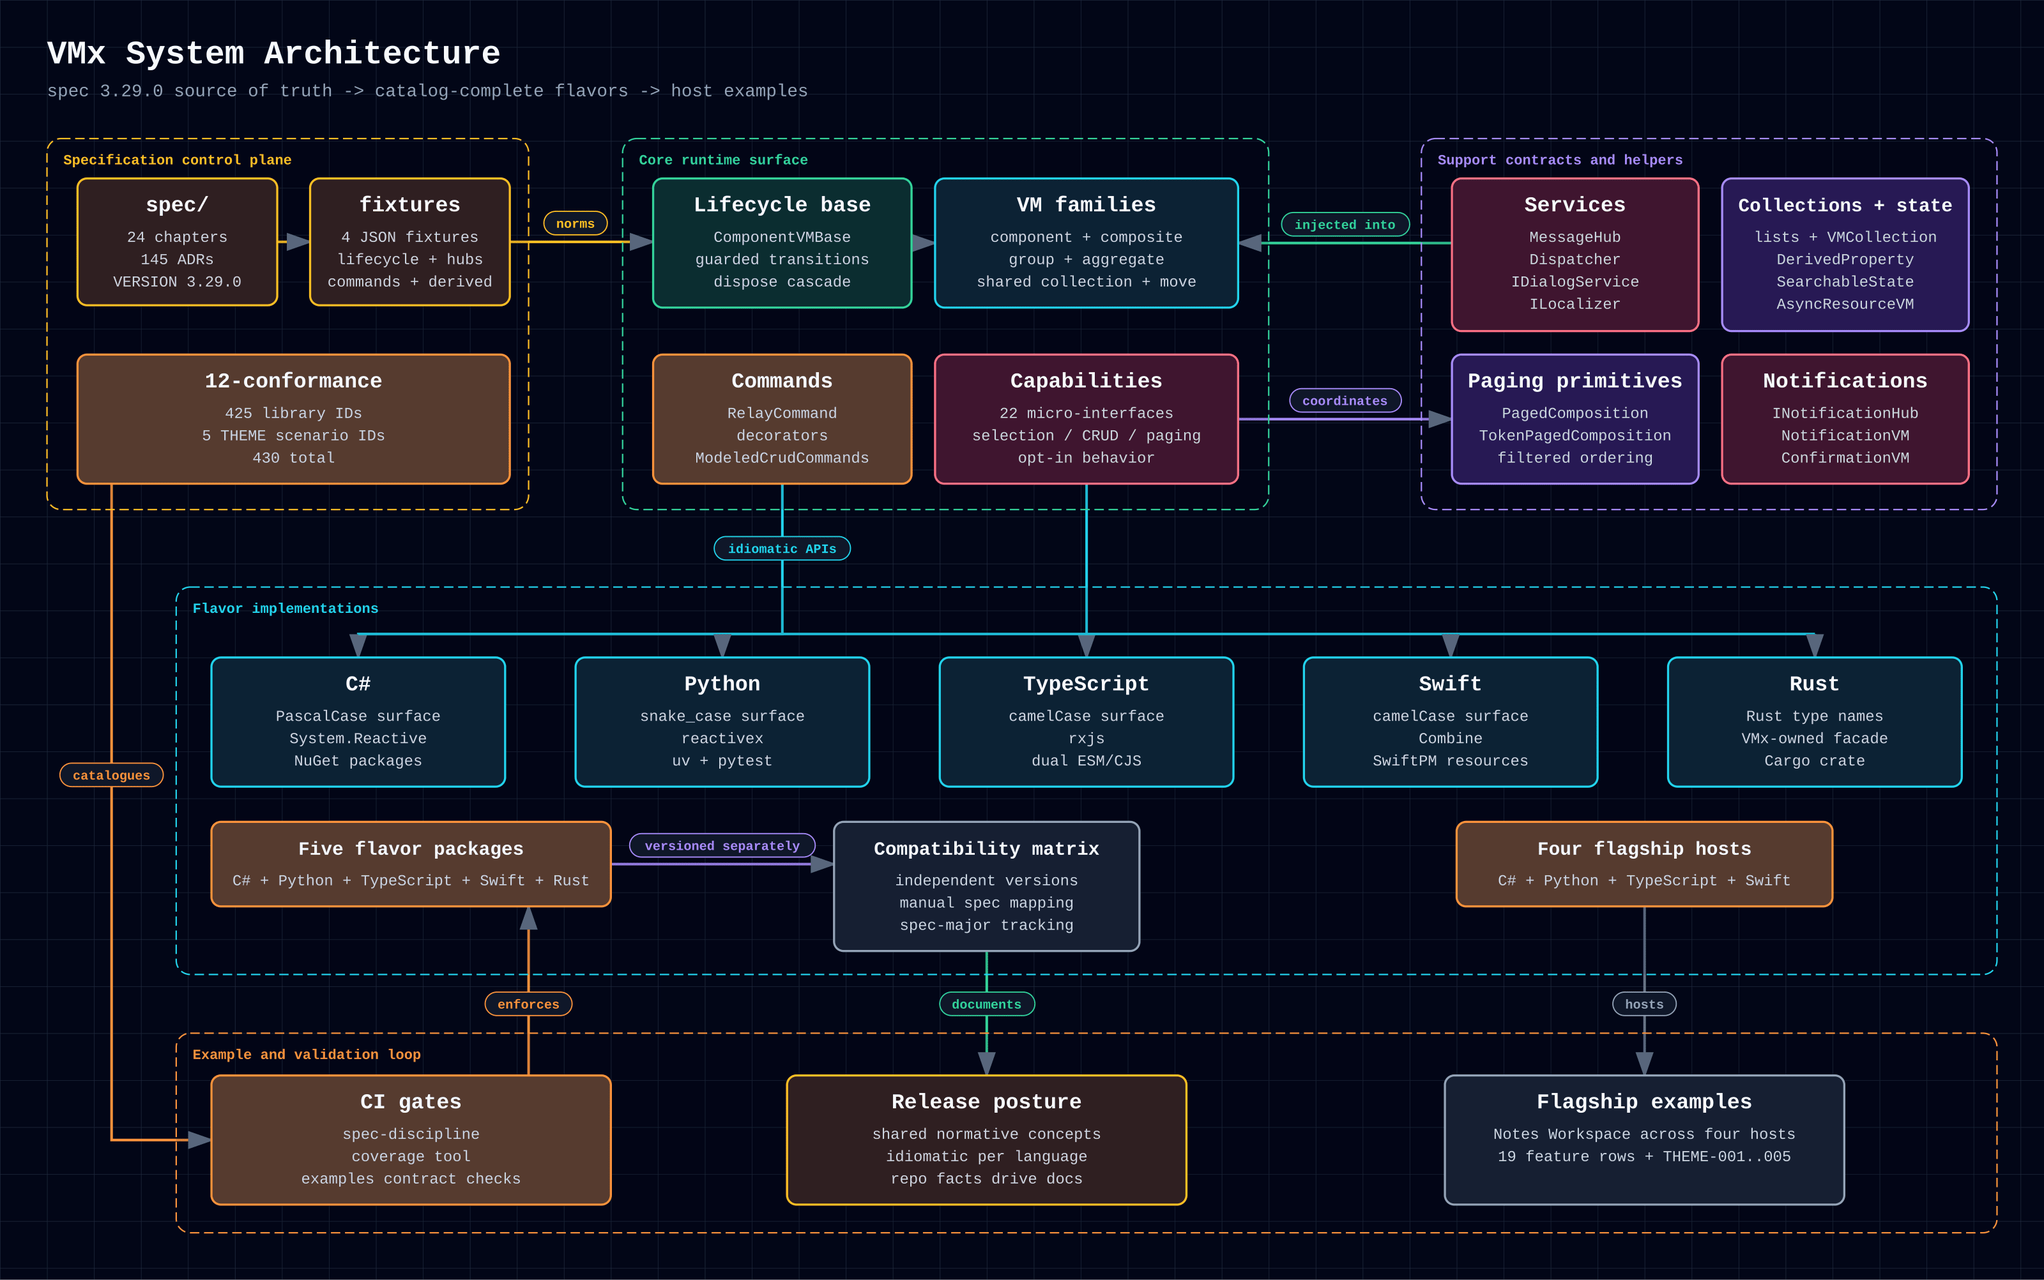
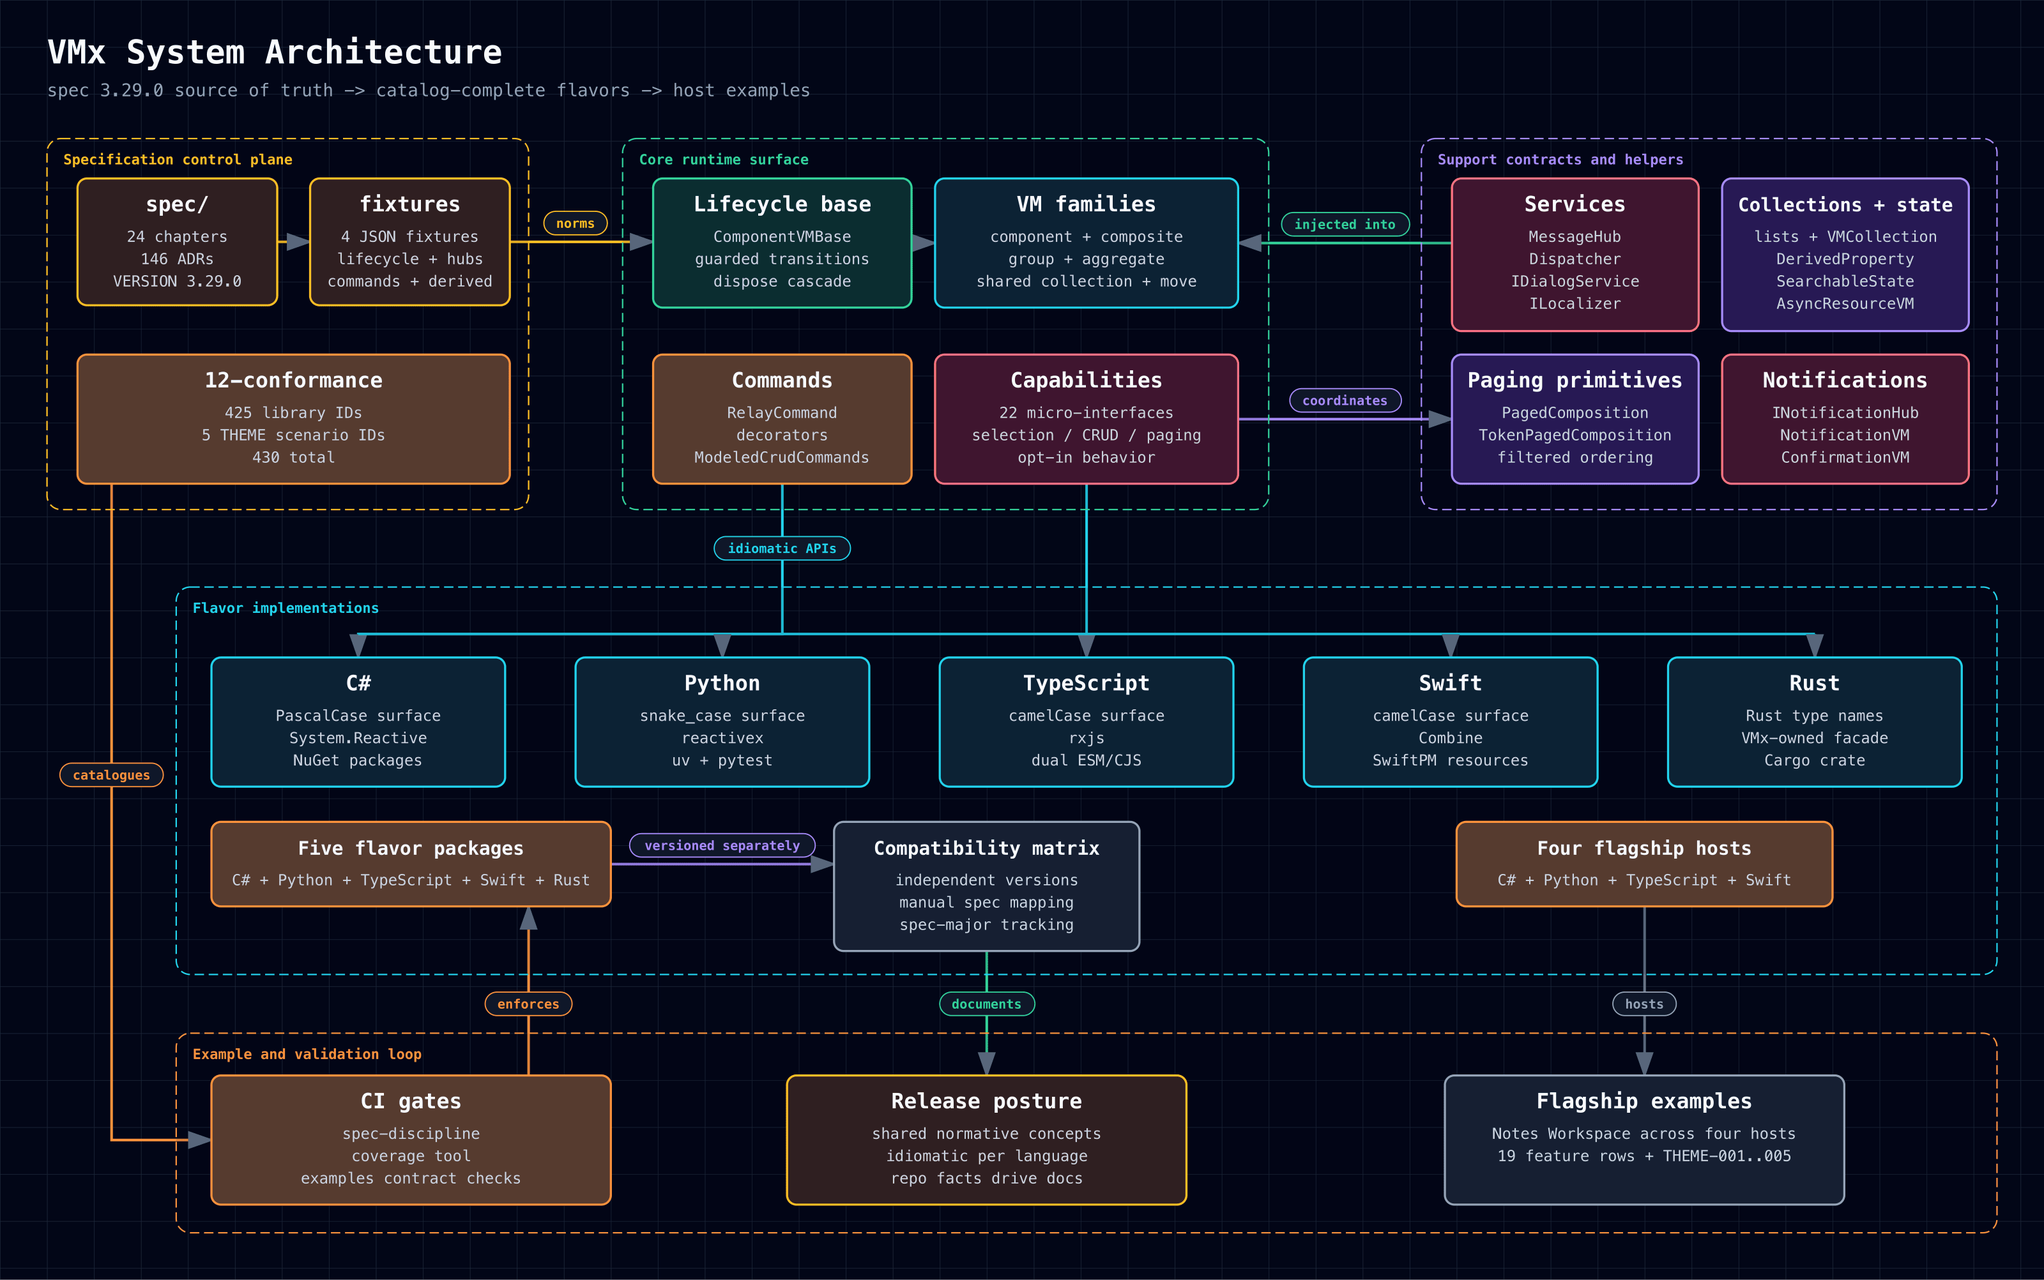
docs: name all five flavors in tree and fluent surfaces (ADR-0146)
- spec/13 §4 gains a Rust row and spec/04 §9 names the Swift free functions
  and Rust CommandExt helpers, as ADR-0121 requires. ADR-0146 records the
  editorial change and the open Rust traversal gap.
- ADR counts, ranges, and architecture diagrams move to 146.
- The Rust showcase page describes save()/revert() and the
  SearchableState-backed search as they are.
- release-please runs with a read-only default token; every write already
  used the dedicated release token.

diff --git a/assets/architecture.html b/assets/architecture.html
@@ -75,7 +75,7 @@
 <rect x="60" y="130" width="300" height="160" rx="12" fill="rgba(120, 53, 15, 0.34)" stroke="#fbbf24" stroke-width="2"/>
 <text x="210" y="162" fill="white" font-size="18" font-weight="700" text-anchor="middle">Spec Source</text>
 <text x="210" y="188" fill="#cbd5e1" font-size="14" font-weight="400" text-anchor="middle">24 chapters</text>
-<text x="210" y="212" fill="#cbd5e1" font-size="14" font-weight="400" text-anchor="middle">145 ADRs</text>
+<text x="210" y="212" fill="#cbd5e1" font-size="14" font-weight="400" text-anchor="middle">146 ADRs</text>
 <text x="210" y="236" fill="#cbd5e1" font-size="14" font-weight="400" text-anchor="middle">430 conformance IDs</text>
 <text x="210" y="260" fill="#cbd5e1" font-size="14" font-weight="400" text-anchor="middle">4 JSON fixtures</text>
 <rect x="450" y="130" width="300" height="160" rx="12" fill="#0f172a"/>

diff --git a/docs/assets/diagrams/system-architecture.html b/docs/assets/diagrams/system-architecture.html
@@ -135,7 +135,7 @@
 <rect x="66" y="152" width="170" height="108" rx="8" fill="rgba(120, 53, 15, 0.3)" stroke="#fbbf24" stroke-width="1.8"/>
 <text x="151" y="180" fill="#f8fafc" font-size="18" font-weight="700" text-anchor="middle">spec/</text>
 <text x="151" y="206" fill="#cbd5e1" font-size="13" font-weight="400" text-anchor="middle">24 chapters</text>
-<text x="151" y="225" fill="#cbd5e1" font-size="13" font-weight="400" text-anchor="middle">145 ADRs</text>
+<text x="151" y="225" fill="#cbd5e1" font-size="13" font-weight="400" text-anchor="middle">146 ADRs</text>
 <text x="151" y="244" fill="#cbd5e1" font-size="13" font-weight="400" text-anchor="middle">VERSION 3.29.0</text>
 <rect x="264" y="152" width="170" height="108" rx="8" fill="#0f172a"/>
 <rect x="264" y="152" width="170" height="108" rx="8" fill="rgba(120, 53, 15, 0.3)" stroke="#fbbf24" stroke-width="1.8"/>

diff --git a/spec/ADRs/README.md b/spec/ADRs/README.md
@@ -164,6 +164,7 @@ cross-references each ADR carries.
 | [0143](0143-formvm-single-flight-approval.md)                                    | `FormVM` admits one approval at a time: while an approval is in flight `ApproveCommand.CanExecute` is false and any other approve call does nothing; settlement clears the mark before publishing `ErrorsChanged`, one `CanExecuteChanged`, and the outcome; edits and deny are not blocked; no public member added                                                                                                                                                                                                                                                                                                                                                                                                                                                                                                                                                                                                                                                                                                                                                                                                                                                                                                                                                                                                                | 3.27.0       | Accepted                          |
 | [0144](0144-formvm-failure-atomic-model-updates.md)                              | `FormVM` `SetModel` and deny prepare before they commit: equality, validators and the deny snapshotter run on the candidate first; a failing callback propagates with model, errors, dirty/valid and command state unchanged and nothing published; a stale preparation (disposal or a nested commit) commits nothing                                                                                                                                                                                                                                                                                                                                                                                                                                                                                                                                                                                                                                                                                                                                                                                                                                                                                                                                                                                                              | 3.28.0       | Accepted                          |
 | [0145](0145-confirmation-awaits-async-inner.md)                                  | An awaited `ConfirmationDecoratorCommand.ExecuteAsync` over an asynchronous inner (async command capability or a nested confirmation) completes when the inner operation completes, invoking it once, with failures to the awaiter only; the fire-and-forget path leaves inner failures on the inner's own error channel; Rust `Command` gains a provided awaitable entry point                                                                                                                                                                                                                                                                                                                                                                                                                                                                                                                                                                                                                                                                                                                                                                                                                                                                                                                                                    | 3.29.0       | Accepted                          |
+| [0146](0146-name-all-flavors-in-tree-and-fluent-surfaces.md)                     | Chapter 13 §4 gains a Rust tree-utility row and chapter 04 §9 names the Swift free functions and Rust `CommandExt` fluent helpers, as ADR-0121 requires; editorial, no new behavior                                                                                                                                                                                                                                                                                                                                                                                                                                                                                                                                                                                                                                                                                                                                                                                                                                                                                                                                                                                                                                                                                                                                                | 3.29.0       | Accepted                          |
 
 ### 1.1 Consolidation opportunities (informative — VMX-120)
 

diff --git a/AGENTS.md b/AGENTS.md
@@ -6,7 +6,7 @@ This file provides guidance to Codex (Codex.ai/code) when working with code in t
 
 VMx is **one language-neutral specification with five idiomatic flavors**. All five are catalog-complete for the 425 library conformance IDs and aligned on the canonical public concepts and observable behavior. Rust's completed convergence evidence is recorded in `docs/maintenance/2026-07-16-rust-capability-parity.md`; ADR-0120 retains its ownership-safe sender-identity idiom. Naming remains idiomatic (PascalCase C#, snake_case Python and Rust methods, camelCase TypeScript and Swift — codified in `spec/ADRs/0006-idiomatic-api-per-language.md`).
 
-- **`spec/` is the source of truth.** 24 numbered markdown chapters (`00-overview.md` … `23-async-resource-vm.md`), 145 ADRs, four JSON fixtures, supporting schemas, current version in `spec/VERSION` (3.29.0). Behavior changes start here.
+- **`spec/` is the source of truth.** 24 numbered markdown chapters (`00-overview.md` … `23-async-resource-vm.md`), 146 ADRs, four JSON fixtures, supporting schemas, current version in `spec/VERSION` (3.29.0). Behavior changes start here.
 - **`spec/fixtures/*.json` are consumed by all flavors** for lifecycle, message-ordering, command-truthtable, and derived-property validation. Python tracks `lifecycle-transitions.json` under `langs/python/src/vmx/lifecycle/_data/` for runtime loading, and `tools/check-python-fixture-sync.py` keeps it byte-identical to the spec fixture; Rust tracks the same runtime fixture under `langs/rust/src/fixtures/` so the published crate is self-contained, and `tools/check-rust-fixture-sync.py` keeps that copy byte-identical. The other fixtures are conformance-test inputs. TypeScript copies all fixtures via `npm run sync-fixtures` (auto-run by `prebuild`, `pretest`, and `prepack`). C# embeds `lifecycle-transitions.json` for runtime and copies all fixtures into conformance test output. Swift ships all four JSON resources under `langs/swift/Sources/VMx/Resources`, including `LifecycleTransitionTable.swift` loading `lifecycle-transitions.json` from `Bundle.module`. When editing a fixture, ensure every flavor still loads the relevant runtime/test resource.
 - **`spec/12-conformance.md` enumerates 430 normative test IDs** — 425 library IDs (`LIFE-001`, `HUB-013`, `CVM-010`, `SUBV-004`, `AGCH-010`, `SRCH-007`, `ARES-011`, `DISP-014`, `FORM-038`, `COL-064`, `BLD-006`, `GRP-013`, `HIER-030`, `NOTIF-017`, `COMP-045`, `DISC-006`, …) plus 5 `THEME-00x` scenario IDs that live in the flagship example apps. C#, Python, TypeScript, Swift, and Rust each implement all 425 library IDs under their conformance test trees. `tools/check-conformance-coverage.py` enforces 100% catalog coverage for all five flavors in CI; coverage alone does not prove member-level parity.
 - **Each flavor versions independently** but a spec major bump triggers a major bump in every active flavor. Each package declares the spec version it implements: `MinSpecVersion` (C#), `__min_spec_version__` (Python), `__minSpecVersion__` (TypeScript), `VMxVersion.minSpecVersion` (Swift), `MIN_SPEC_VERSION` (Rust). Compatibility is recorded in `compatibility-matrix.md`; release-please updates the current Python cell, while spec and other flavor changes remain explicit edits.

diff --git a/spec/ADRs/0146-name-all-flavors-in-tree-and-fluent-surfaces.md b/spec/ADRs/0146-name-all-flavors-in-tree-and-fluent-surfaces.md
@@ -1,0 +1,40 @@
+# ADR 0146 — Tree-utility and fluent-command surfaces name all five flavors
+
+- **Status:** Accepted
+- **Date:** 2026-10-17
+- **Spec version:** 3.29.0
+- **Related:** [ADR-0006](0006-idiomatic-api-per-language.md) (idiomatic API per
+  language), [ADR-0027](0027-fluent-command-extensions.md) (fluent command
+  extensions), [ADR-0121](0121-current-five-flavor-contract-clarifications.md)
+  (current prose names all five flavors)
+
+## 1. Context
+
+ADR-0121 requires current spec prose either to stay language-neutral or to name
+all five flavors. Two per-flavor surface descriptions did not:
+
+- Chapter 13 §4 listed the tree-utility surface for C#, Python, TypeScript, and
+  Swift, with no Rust row.
+- Chapter 04 §9 described the fluent helpers for C#, Python, and TypeScript
+  only, although Swift ships free functions and Rust ships the `CommandExt`
+  trait.
+
+## 2. Decision
+
+Add the missing flavors to both descriptions, as the code ships them:
+
+- Chapter 13 §4 gains a Rust row. Rust exposes `walk`, `walk_expanded`, and
+  `find` as crate-level functions over a `TreeNode` implementor. They return a
+  materialized `Vec<T>` and an `Option<T>`.
+- Chapter 04 §9 names the Swift free functions and the Rust `CommandExt`
+  trait methods.
+
+The change is editorial. It adds no normative behavior and no conformance ID.
+
+## 3. Consequences
+
+- The two sections satisfy ADR-0121.
+- Chapter 13 still requires traversal through composite, group, and aggregate
+  children. The Rust functions traverse only `TreeNode` implementors, which
+  today means `HierarchicalVm` trees. This ADR records that gap and does not
+  change it; closing it needs a separate behavioral change with its own tests.

diff --git a/README.md b/README.md
@@ -310,7 +310,7 @@ released compatibility plus the current in-development line.
 
 ### 6.3 Conformance catalog
 
-`spec/` holds 24 chapters, 145 ADRs, 4 JSON fixtures, and the conformance
+`spec/` holds 24 chapters, 146 ADRs, 4 JSON fixtures, and the conformance
 catalog in `spec/12-conformance.md`. All five flavors implement its
 425 library conformance IDs, and the four UI-backed flagship apps cover
 5 additional THEME scenario IDs, for **430 total**. Rust has no UI scenario
@@ -336,7 +336,7 @@ python3 tools/check-conformance-coverage.py
 .
 ├── spec/                  language-neutral specification (source of truth)
 │   ├── 00-overview.md ... 23-async-resource-vm.md  (24 chapters)
-│   ├── ADRs/              architecture decision records (0001..0145)
+│   ├── ADRs/              architecture decision records (0001..0146)
 │   ├── fixtures/          JSON test inputs shared across flavors
 │   ├── schemas/           versioned supporting machine contracts
 │   ├── proposals/         mostly historical; scenario contracts may be normative
@@ -381,7 +381,7 @@ This README is the entry point; the documents below add focused detail.
   community guidelines.
 - [`compatibility-matrix.md`](compatibility-matrix.md) — spec ↔ flavor
   version pairing.
-- [`spec/README.md`](spec/README.md) — index of the 24 chapters, 145 ADRs,
+- [`spec/README.md`](spec/README.md) — index of the 24 chapters, 146 ADRs,
   4 fixtures, and the 430-ID conformance catalog.
 - [`spec/ADRs/README.md`](spec/ADRs/README.md) — ADR catalogue index.
 - [`docs/audit/README.md`](docs/audit/README.md) — index of historical

diff --git a/spec/13-tree-utilities.md b/spec/13-tree-utilities.md
@@ -51,12 +51,13 @@ Properties:
 
 ## 4. Idiomatic surface
 
-| Flavor     | Module     | Walk / WalkExpanded return           | Find return            |
-| ---------- | ---------- | ------------------------------------ | ---------------------- |
-| C#         | `VMx.Tree` | `IEnumerable<IComponentVM>` (lazy)   | `IComponentVM?`        |
-| Python     | `vmx.tree` | `Iterator[IComponentVM]` (generator) | `IComponentVM \| None` |
-| TypeScript | `vmx/tree` | `Iterable<IComponentVM>` (generator) | `IComponentVM \| null` |
-| Swift      | `VMx`      | `[ComponentVMBase]` (materialized)   | `ComponentVMBase?`     |
+| Flavor     | Module     | Walk / WalkExpanded return                | Find return            |
+| ---------- | ---------- | ----------------------------------------- | ---------------------- |
+| C#         | `VMx.Tree` | `IEnumerable<IComponentVM>` (lazy)        | `IComponentVM?`        |
+| Python     | `vmx.tree` | `Iterator[IComponentVM]` (generator)      | `IComponentVM \| None` |
+| TypeScript | `vmx/tree` | `Iterable<IComponentVM>` (generator)      | `IComponentVM \| null` |
+| Swift      | `VMx`      | `[ComponentVMBase]` (materialized)        | `ComponentVMBase?`     |
+| Rust       | `vmx`      | `Vec<T>` for `T: TreeNode` (materialized) | `Option<T>`            |
 
 `walk_expanded` (spec v2.0) shares the same return shape as `walk` per flavor.
 Swift returns materialized `[ComponentVMBase]` arrays rather than lazy sequences

diff --git a/docs/content/examples/rust-tui-notes-showcase.md b/docs/content/examples/rust-tui-notes-showcase.md
@@ -19,9 +19,10 @@ state, lifecycle, filtering, paging, commands, notifications, and editor mode.
 - `WorkspaceVm` composes six child surfaces through `AggregateVm6`.
 - `NotesViewVm` uses `CompositeVm`, `FilteredCompositeVm`, and
   `PagedComposition`.
-- `NoteFormVm` uses strict `FormVm<NoteDraft>` validation and save/revert
-  commands.
-- `GlobalSearchVm` combines `SearchableState` with `TokenPagedComposition`.
+- `NoteFormVm` uses strict `FormVm<NoteDraft>` validation with `save()` and
+  `revert()` methods. The terminal app does not bind keys to them.
+- `GlobalSearchVm` pages the filtered projection of a `SearchableState` with
+  `TokenPagedComposition`.
 - `NotificationsVm` uses `NotificationHub` and `NotificationVm` wrappers.
 - `EditorModeVm` uses `DiscriminatorVm` for edit/preview switching.
 

diff --git a/spec/04-commands.md b/spec/04-commands.md
@@ -373,7 +373,9 @@ active flavor. All four are pure convenience — they produce exactly the same
 object graph as the equivalent explicit constructor call.
 
 Per-flavor surface (ADR-0006): C# exposes them as static extension methods on
-`ICommand`; Python as module-level functions; TypeScript as named exports.
+`ICommand`; Python as module-level functions; TypeScript as named exports;
+Swift as free functions that take the command first; Rust as methods of the
+`CommandExt` trait, implemented for every cloneable `Command` (ADR-0146).
 
 ### 9.1 `Confirm(confirm)`
 

diff --git a/spec/README.md b/spec/README.md
@@ -696,7 +696,7 @@ See ADR-0145 and chapter 04 §8.3.2.
 
 - `VERSION` — current spec SemVer (`3.29.0`).
 - `fixtures/` — machine-checkable test inputs (JSON, 4 files).
-- `ADRs/` — Architecture Decision Records (0001-0145); see
+- `ADRs/` — Architecture Decision Records (0001-0146); see
   [`ADRs/README.md`](ADRs/README.md) for the registry index.
 - `schemas/` — versioned supporting machine contracts. The consumer
   conformance v1 schema is non-normative; see ADR-0102.
